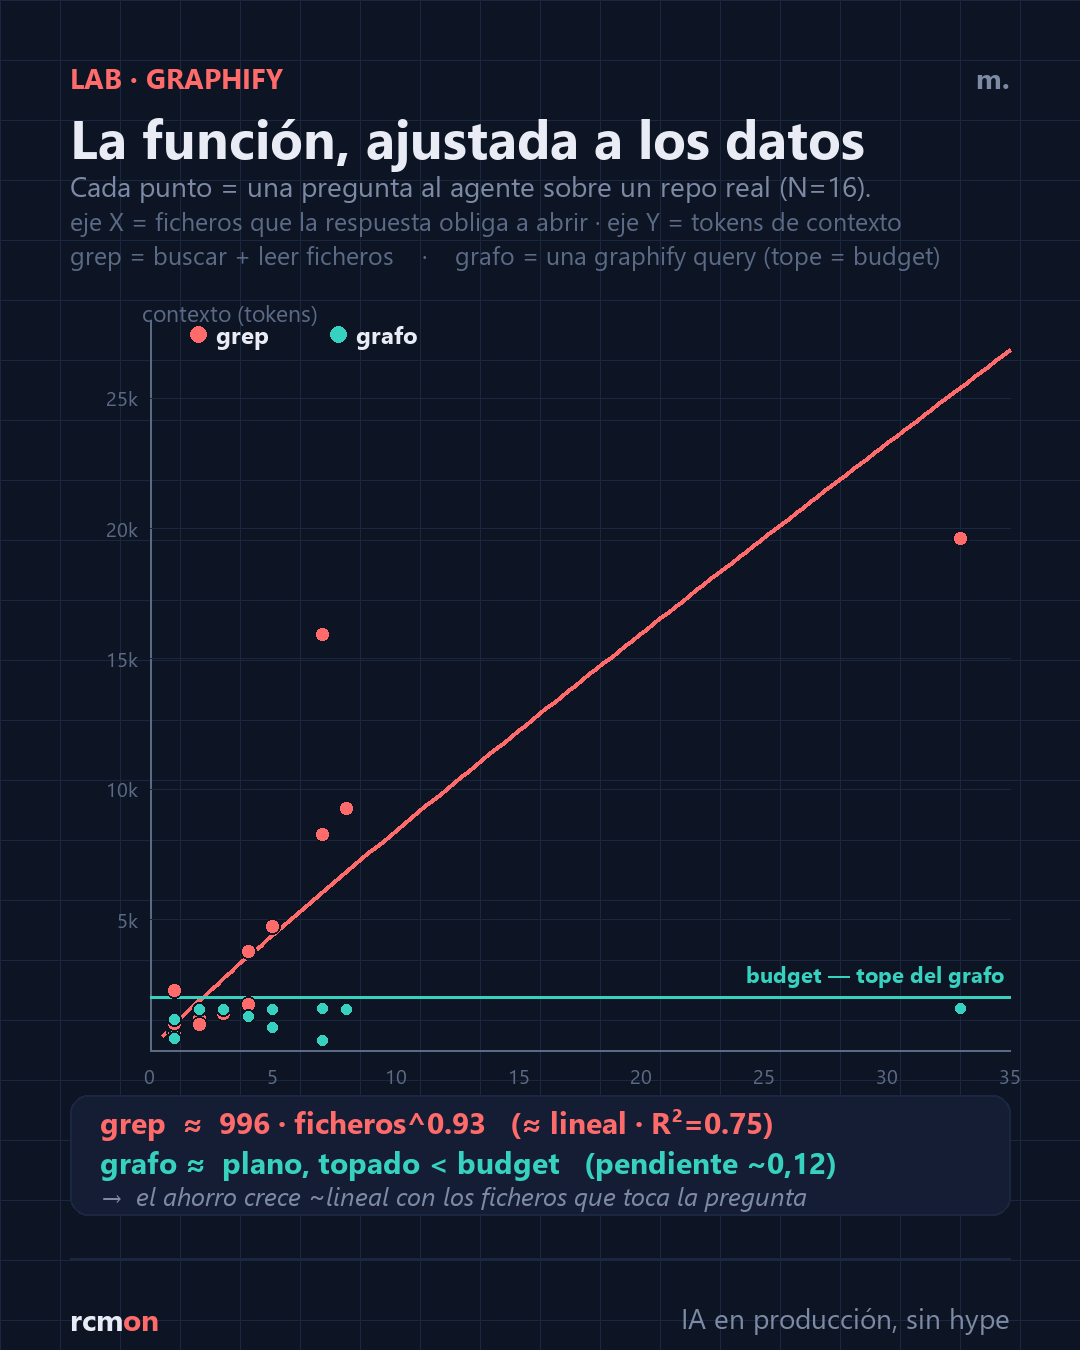
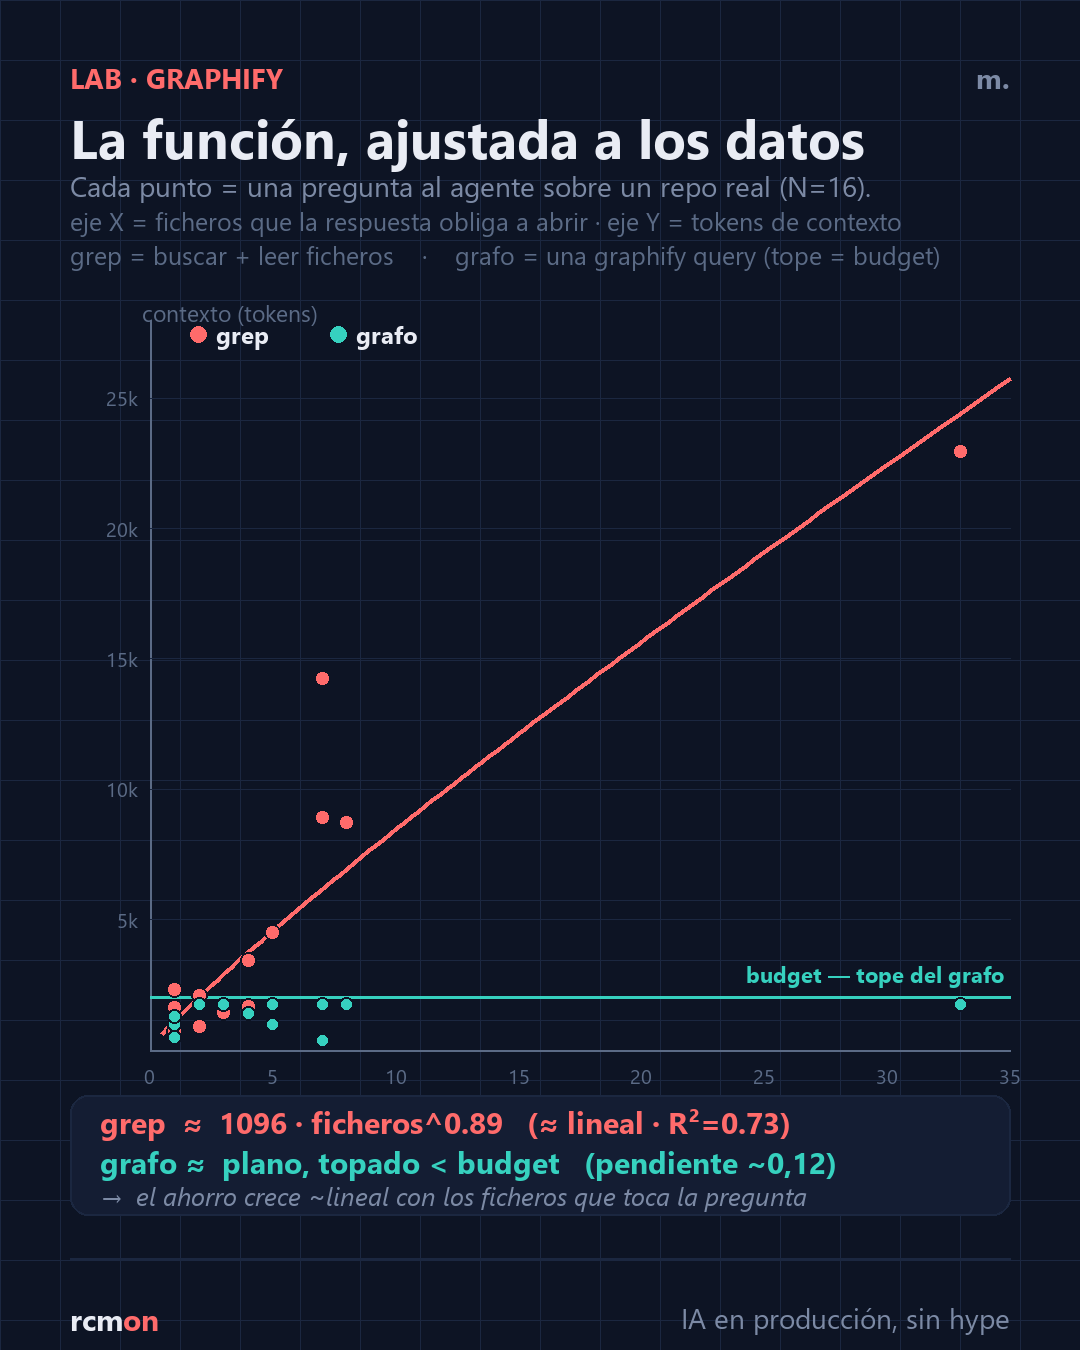
Lab Graphify: grafo navegable vs grep, medido con tu propio repo
Nuevo lab con la plantilla de practica-para-aprender: instalar Graphify, generar el grafo de un repo real y medir grep-and-read vs graphify query. Numeros reales (tiktoken) sobre este blog: mediana ~2x, hasta 37x, y a veces gana el grep. Grafica de ajuste embebida. Matiz honesto: el grafo vale lo que su extractor (preciso en estructura, flojo en wiring runtime).

diff --git a/content/02 Laboratorios/graphify-grafo-navegable.md b/content/02 Laboratorios/graphify-grafo-navegable.md
@@ -162,68 +162,36 @@ Repórtame los tokens de los nodos y aristas que devuelve el grafo.
 | **Contexto ahorrado** | — | **… ×** |
 
 > [!example] Resultado real — y por qué hay que medir
-> **Este blog (Quartz, 610 nodos), 6 preguntas.** El grafo abre **0 ficheros** en todas (responde con `graphify query`); el grep abre los que haga falta:
+> **Este blog (Quartz, 610 nodos), tokenizador real (tiktoken).** El grafo abre **0 ficheros** (responde con `graphify query`); el grep abre los que haga falta. 6 de las 16 preguntas medidas:
 >
 > | Pregunta | ficheros (grep) | grep tk | grafo tk | ahorro |
 > |---|---|---|---|---|
-> | GlobalConfiguration | 8 | 9.248 | 1.562 | 5,9× |
-> | FullPageLayout | 5 | 4.755 | 1.565 | 3,0× |
-> | PageList | 4 | 3.794 | 1.563 | 2,4× |
-> | GraphOptions | 1 | 1.008 | 460 | 2,2× |
-> | QuartzConfig | 3 | 1.417 | 1.564 | 0,9× |
-> | Analytics | 1 | 707 | 881 | 0,8× |
+> | GlobalConfiguration | 8 | 8.734 | 1.754 | 5,0× |
+> | GraphOptions | 1 | 1.632 | 496 | 3,3× |
+> | FullPageLayout | 5 | 4.526 | 1.759 | 2,6× |
+> | PageList | 4 | 3.426 | 1.705 | 2,0× |
+> | QuartzConfig | 3 | 1.433 | 1.750 | 0,8× |
+> | Analytics | 1 | 708 | 991 | 0,7× |
 >
-> **Media 2,5× · rango 0,8–5,9×.** En 2 de 6, el grep salió *más barato*: abría pocos ficheros y el `graphify query` está acotado (~1,5k tokens). El grafo gana cuando el grep tendría que abrir **muchos** ficheros; empata o pierde cuando la respuesta ya estaba en 1-3 ficheros pequeños. (En otro proyecto propio en .NET, una pregunta similar dio **9,8×**.) Moraleja: mide *tu* repo con este lab, no te fíes del titular.
->
-> *Y es un suelo conservador: cuenta **un** grep + leer las coincidencias. Un agente real encadena varios greps en bucle (grep → leer → grep → leer…), así que en preguntas de varios saltos el grep gasta más y el ahorro sube.*
+> **Sobre las 16: mediana ~2×, rango 0,5–37×, y en 4 el grep salió más barato** (abría pocos ficheros y el `graphify query` tiene su coste base ~topado). El grafo gana cuando el grep tendría que abrir **muchos** ficheros; empata o pierde cuando la respuesta ya estaba en 1-2 pequeños. Moraleja: mide *tu* repo con este lab, no te fíes del titular.
 
 > [!check] Checkpoint
 > El agente termina con una cifra propia de ahorro (grep vs. grafo) sobre tu repo. **No es "71,5×"**: es 8×, 40× o lo que te haya salido. Lo que prueba el experimento no es el número, es que **la estructura del dato de búsqueda importa más que el tamaño del modelo** que busca.
 
 **Por qué gana el grafo:** en grep-and-read el agente abre ficheros que no venían al caso solo porque la palabra aparecía de pasada. El grafo no: la arista ya codifica la relación real, y la marca como **EXTRACTED** (está en el código: una llamada, un import, un FK) o **INFERRED** (la dedujo Graphify). Por eso la respuesta del grafo cita sus fuentes y sabes qué fiar y qué verificar — mientras que grep te devuelve coincidencias de texto que hay que leer para descartar.
 
-## 🧮 El modelo del ahorro (por qué el veredicto es estructural)
+## 🧮 ¿Cuánto ahorra? Depende — y ese es el punto
 
-Los números de arriba no son anécdota: salen de **cómo escala cada estrategia**. Y no escala de forma lineal.
-
-**Una pregunta se responde en varios saltos** (`h = 1…H`): el agente localiza algo y desde ahí salta al siguiente. En cada salto, las dos estrategias pagan cosas distintas:
-
-- **grep** busca un término y **lee los ficheros que salen** → cuesta `fₕ · sₕ` (ficheros × tamaño).
-- **grafo** hace una `graphify query` → cuesta `bₕ`, **topado por el budget** (`bₕ ≤ B`) y sin abrir ficheros.
-
-El contexto total de una pregunta es la **suma de sus saltos**:
-
-$$C_{\text{grep}} = \sum_{h=1}^{H} f_h\,s_h \qquad\qquad C_{\text{grafo}} = \sum_{h=1}^{H} b_h \;\le\; H\cdot B$$
-
-**Por qué no es lineal.** `f` y `s` **no son constantes**: crecen con el tamaño del repo (más código → términos más ambiguos, ficheros mayores) y con el alcance de la pregunta (`H`↑). Los tres suben a la vez, así que `C_grep` es **super-lineal** en la complejidad — una curva convexa. En cambio `b` está **topado** por el budget, así que `C_grafo` es **sub-lineal** y se **aplana**. El ahorro no es un "×" fijo, es una función que crece:
-
-$$R = \frac{\sum_h f_h\,s_h}{\sum_h b_h}\ \nearrow\ \text{con el tamaño del repo y la profundidad de la pregunta.}$$
-
-**Medido salto a salto** (recorrido real de 4 saltos en un proyecto propio en .NET: Console → parser → analyzer → exporter):
-
-| | por salto (tokens) | total |
-|---|---|---|
-| **grafo** (`bₕ`) | 460 · 1.134 · 362 · 445 — *topado* | **2.401** |
-| **grep** (`fₕ·sₕ`) | 0 · 6.748 · 756 · 1.735 — *disparado* | **9.239** |
-
-Los **mismos 4 saltos** en ambos: el ahorro (**3,8×**) no viene de hacer menos loops, sino del **coste de cada loop**. Mira el salto `ScriptDomParser`: al grep le costó 6.748 tk (5 ficheros); al grafo, 1.134 topados.
-
-**La conclusión estructural:** grep ≈ **O(Σ fₕsₕ)** con `f,s` crecientes → **super-lineal**; grafo ≈ **O(Σ bₕ)** con `b` topado → **sub-lineal, se aplana**. El grafo no elimina los loops: **acota el coste de cada uno**. Y para `N` preguntas se suma por pregunta —cada una con su `H`, su `f`, su `s`—, así que el ahorro es una **distribución**, no un número. Por eso: mídelo en tu repo.
+No hay un "×" fijo. Ajusté el contexto de **16 preguntas reales** con un tokenizador real (tiktoken): el coste del **grep crece ~lineal con los ficheros** que toca la pregunta; el del **grafo se queda topado** por su presupuesto (`--budget`), da igual lo grande que sea el repo.
 
 ![Ajuste sobre 16 preguntas: el grep crece ~lineal con los ficheros que toca la pregunta; el grafo se queda topado bajo el budget](/static/labs/graphify/coste-funcion.png)
 
-*Ajuste real sobre 16 preguntas (cada punto, una pregunta). El grep (coral) crece ~lineal con los ficheros que toca; el grafo (teal) se queda plano bajo el budget. Regresión: `grep ≈ 1.000 · ficheros^0,93` (R²=0,75); grafo, pendiente ~0. La cifra `a≈1.000 tk/fichero` es de este repo — en el tuyo será otra.*
+*Cada punto, una pregunta. Regresión: `grep ≈ 1.100 · ficheros^0,89` (R²=0,73 — **~lineal**, no una curva mágica); el grafo (teal) se queda plano bajo el budget. Resultado: **mediana ~2×, hasta 37×**, y en **4 de 16 gana el grep**. La cifra por fichero es de este repo — en el tuyo será otra.*
 
-> [!check] El veredicto, contra los datos medidos
-> Un solo modelo predice los tres regímenes, **incluido cuándo el grafo pierde**:
->
-> | Pregunta | régimen | ahorro |
-> |---|---|---|
-> | blog `Analytics` | 1 salto, 1 fichero pequeño (`Σfs < B`) | **0,8×** — gana el grep |
-> | .NET, recorrido 4 saltos | multi-salto, ficheros medianos | **3,8×** |
-> | .NET `ISqlParser`, bucle | término ambiguo, 6 greps / 15 ficheros | **16,4×** |
->
-> Que prediga el caso en que **pierde** es lo que lo hace fiable — y por qué el "×" se mide por pregunta, no se promete.
+**Un matiz que no se suele decir:** el grafo **vale lo que su extractor**. Tree-sitter es preciso y barato para lo estructural —quién implementa, quién llama, qué importa—, pero **no ve el wiring de runtime** (inyección de dependencias, reflection). Ahí el grep sigue siendo la red de seguridad. No son rivales: **grafo para estructura, grep para lo dinámico**.
+
+> [!info] Próximo avance
+> El análisis riguroso queda para la siguiente entrega: **loops reales de agente** (dos agentes con el mismo modelo, uno solo-grep y otro solo-graphify), **precisión por tipo de pregunta**, si el coste es de verdad super-lineal contra la *complejidad* (aquí solo lo medí contra ficheros, y salió ~lineal), y por qué **darle el `graph.json` entero al modelo es la trampa** (cientos de miles de tokens de ruido).
 
 ## Prueba tú
 